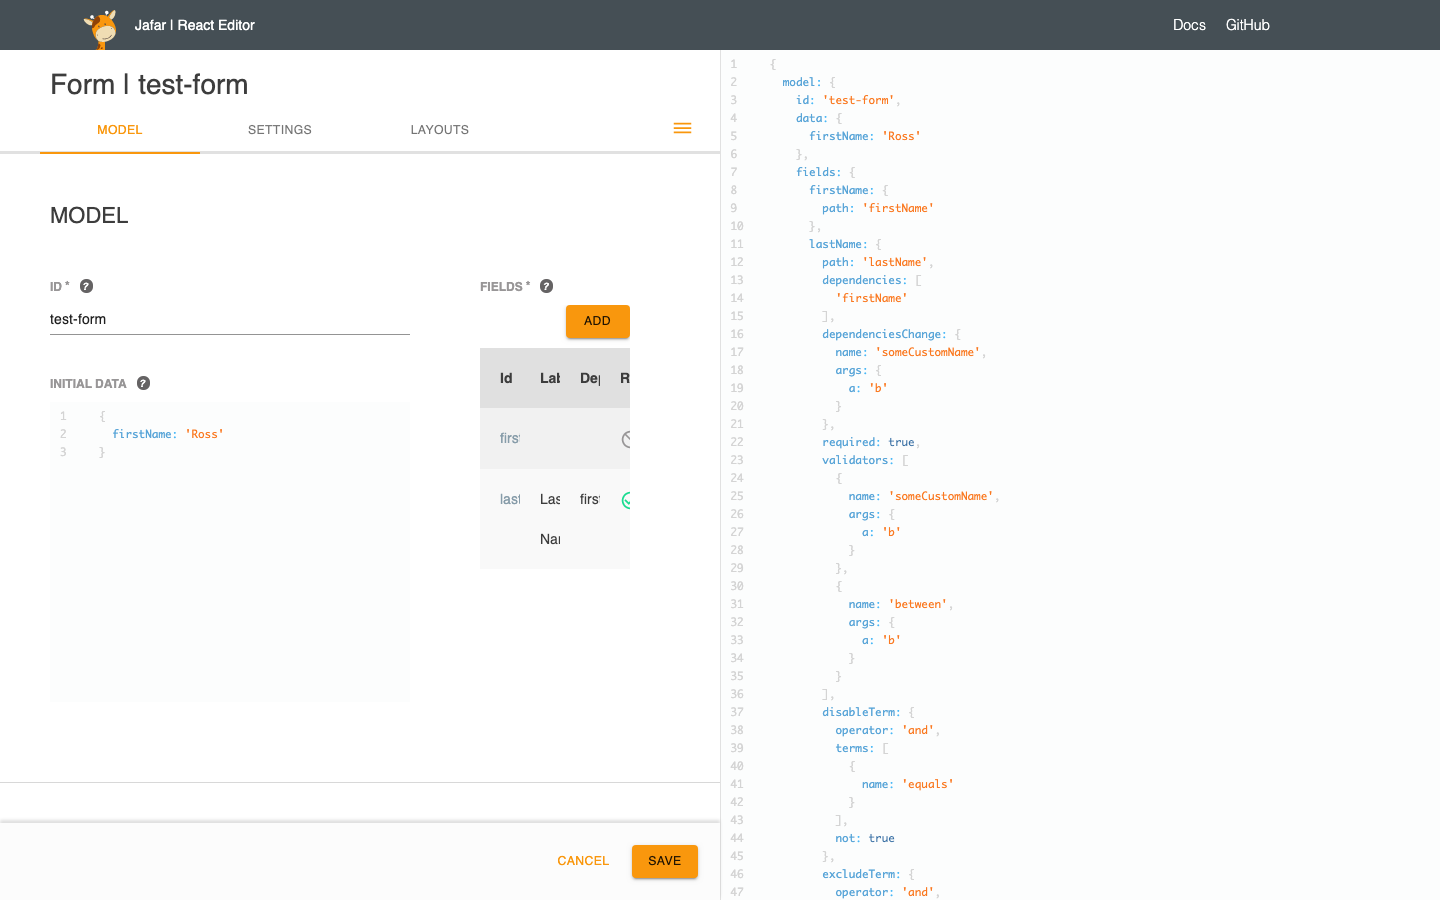
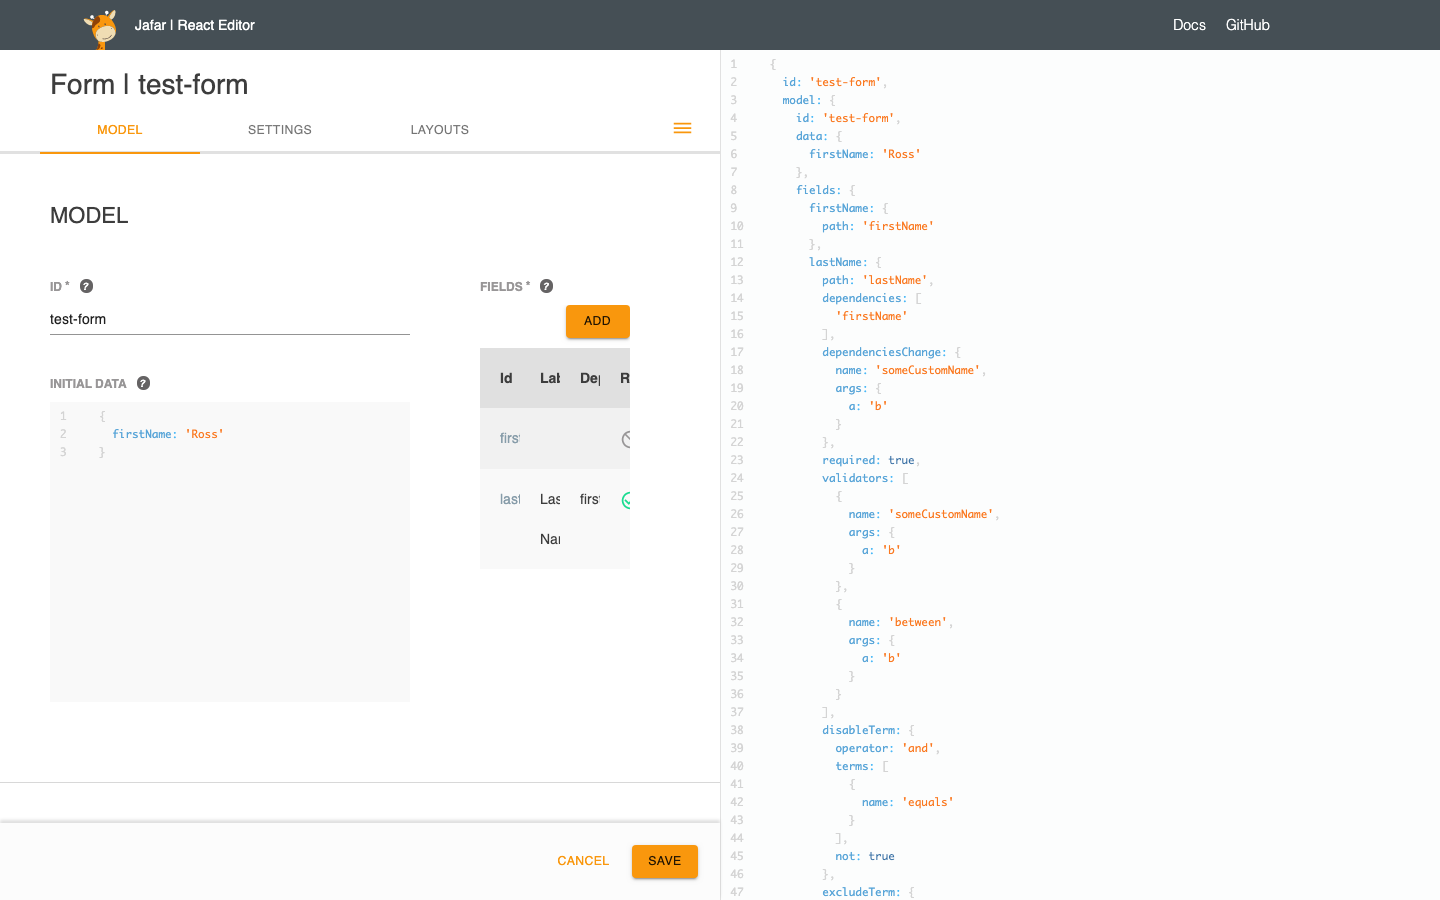
upfate

diff --git a/packages/react-editor/src/website/pages/Edit/Edit.jsx b/packages/react-editor/src/website/pages/Edit/Edit.jsx
@@ -1,0 +1,41 @@
+/**
+  * Copyright 2020, Verizon Media
+  * Licensed under the terms of the MIT license. See LICENSE file in project root for terms.
+  */
+
+import React, { useState, useEffect } from 'react';
+import { withRouter } from 'react-router-dom';
+import service from '../../service';
+
+const _generateId = () => Math.random().toString(16).slice(2);
+
+const Edit = ({ name, generateId = _generateId, renderEditor, match, location, history }) => {
+  const [entity, setEntity] = useState();
+
+  useEffect(() => {
+    const loadData = async () => {
+      const params = new URLSearchParams(location.search); 
+      const fromAnotherId = params.get('from');
+      const isNew = match.params.id === 'new' && !fromAnotherId;
+      const isClone = match.params.id === 'new' && fromAnotherId;
+      const entityId = isClone ? fromAnotherId : match.params.id;
+      const entity = isNew ? {} : (await service.getEntity(name, entityId) || {});
+      if (isClone) {
+        delete entity.id;
+      }
+      setEntity(entity);
+    };
+    loadData();
+  }, [match.params.id, location.search]);
+
+  const onSave = async ({ data }) => {
+    await service.setEntity(name, generateId(data), data);
+    onCancel();
+  };
+
+  const onCancel = () => history.push({ pathname: `/${name}` });
+
+  return entity ? renderEditor({ entity, onSave, onCancel }) : (null);
+};
+
+export default withRouter(Edit);

diff --git a/packages/react-editor/src/website/pages/Form/Edit/Edit.jsx b/packages/react-editor/src/website/pages/Form/Edit/Edit.jsx
@@ -1,0 +1,33 @@
+/**
+  * Copyright 2020, Verizon Media
+  * Licensed under the terms of the MIT license. See LICENSE file in project root for terms.
+  */
+
+import React, { useState, useEffect } from 'react';
+import service from '../../../service';
+import { FormEditor } from '../../../../components';
+import Edit from '../../Edit';
+import components from './components';
+
+const generateId = form => form.model.id;
+
+export default () => {
+  const [formIds, setFormIds] = useState();
+
+  useEffect(() => {
+    const loadData = async () => {
+      const forms = await service.searchEntity('form') || {};
+      setFormIds(forms.data.map(x => x.model.id));
+    };
+    loadData();
+  }, []);
+
+  const renderEditor = ({ entity, onSave, onCancel }) => (<FormEditor 
+    form={entity}
+    formIds={formIds}
+    components={components}
+    onSave={onSave} 
+    onCancel={onCancel} />);
+  
+  return !formIds ? (null) : (<Edit name="form" generateId={generateId} renderEditor={renderEditor} />);
+};

diff --git a/packages/react-editor/src/website/service/index.js b/packages/react-editor/src/website/service/index.js
@@ -27,7 +27,7 @@ export default {
   getEntity: async (name, id) => {
     const db = getDB();
     const entityMap = db[name] || {};
-    return entityMap[id];
+    return { id, ...entityMap[id] };
   },
   setEntity: async (name, id, entity) => {
     const db = getDB();

diff --git a/packages/react-editor/src/website/Root.e2e.js b/packages/react-editor/src/website/Root.e2e.js
@@ -206,6 +206,7 @@ async function testCreateNewForm(page) {
   await page.click(selectors.showJsonMenuItem);
 
   // verify its data there
+  expectedFormJson.id = expectedFormJson.model.id;
   await verifyJsonView(page, expectedFormJson);
 }
 
